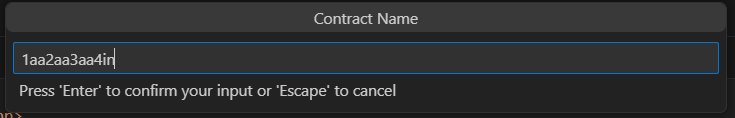
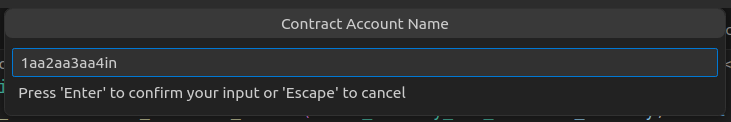
BLOCK-2445 - Update contract build tutorial (#234)
* BLOCK-2445 - Add version information to VSCode tutorials, add password step to transaction tutorial

* BLOCK-2445 - Update account name image

diff --git a/docs/tutorials/smart-contracts/transact.md b/docs/tutorials/smart-contracts/transact.md
@@ -17,6 +17,10 @@ The goal of this tutorial is to demonstrate how to interact with deployed smart 
 
 -   You must have deployed your smart contract. Refer to [Tutorial - Deploy Smart Contracts using the Ultra Smart Contract Toolkit Extension](./deploy.md).
 
+::: info
+The tutorial is up-to-date with version 1.4.2 of the VSCode extension
+:::
+
 ## Interacting with Smart Contract
 
 To interact with your deployed smart contract, follow these steps:
@@ -27,19 +31,22 @@ To interact with your deployed smart contract, follow these steps:
 2. Select the endpoint where your smart contract is deployed.
    ![](./images/command-palette-deploy-select-endpoint.png)
 
-3. Enter the name of the account which the contract was deployed under.
+3. Enter the password for the local wallet that you created in the previous tutorial.
+   ![](./images/command-palette-create-tx-password.png)
+
+4. Enter the name of the account which the contract was deployed under.
    ![](./images/command-palette-create-tx-account-name.png)
 
-4. You will now see a list of available actions for your smart contract. Select the one that you want to interact with.
+5. You will now see a list of available actions for your smart contract. Select the one that you want to interact with.
    ![](./images/command-palette-create-tx-select-action.png)
 
-5. Enter the signer account. The signer should be the account you have access to. For the sake of this tutorial, we will use the same account where we deployed the smart contract.
+6. Enter the signer account. The signer should be the account you have access to. For the sake of this tutorial, we will use the same account where we deployed the smart contract.
    ![](./images/command-palette-create-tx-signing-acc.png)
 
-6. You will now see a transaction form. Fill out your transaction data, and execute it by clicking on the `Sign & Send` button.
+7. You will now see a transaction form. Fill out your transaction data, and execute it by clicking on the `Sign & Send` button.
    ![](./images/vscode-ext-contract-action-interaction.png)
 
-7. If successful, you will see the transaction response in the output window.
+8. If successful, you will see the transaction response in the output window.
    ![](./images/vscode-ext-contract-action-interaction-output.png)
 
 You can use the transaction id and search for the transaction on the [Ultra Testnet Block Explorer](https://explorer.testnet.ultra.io/).

diff --git a/docs/tutorials/smart-contracts/deploy.md b/docs/tutorials/smart-contracts/deploy.md
@@ -19,6 +19,10 @@ The goal of this tutorial is to guide you through deploying a smart contract usi
 -   A public-private key pair for your developer Testnet account. If you haven't generated a key pair yet, refer to [Tutorial - Generate a key and create a developer Testnet account](../fundamentals/tutorial-generate-key-and-create-testnet-account.md)
 -   Your account must have sufficient UOS tokens for transactions and fees. Refer to [Tutorial - Using the Faucet and Buying RAM on Ultra Testnet](../fundamentals/tutorial-obtain-token-and-purchase-ram.md#obtaining-uos-tokens-using-the-faucet) for more information.
 
+::: info
+The tutorial is up-to-date with version 1.4.2 of the VSCode extension
+:::
+
 ## Add Developer Testnet Account
 
 Before you can deploy a smart contract, you will need to add your developer Testnet account to the Ultra Smart Contract Toolkit Extension. To do so, follow these steps:

diff --git a/docs/tutorials/smart-contracts/compile.md b/docs/tutorials/smart-contracts/compile.md
@@ -13,6 +13,10 @@ Compiling smart contracts is very simple with the [Ultra Smart Contract Toolkit]
 
 -   Have installed the Ultra Smart Contract Toolkit Extension. Refer to [Install and Setup the Ultra Smart Contract Toolkit Extension Tutorial](./index.md) for more information.
 
+::: info
+The tutorial is up-to-date with version 1.4.2 of the VSCode extension
+:::
+
 ## Goal
 
 The goal of this tutorial is to compile smart contracts using the Ultra Smart Contract Toolkit extension.

diff --git a/docs/tutorials/smart-contracts/index.md b/docs/tutorials/smart-contracts/index.md
@@ -13,6 +13,10 @@ order: -98
 -   [VS Code](https://code.visualstudio.com/)
     -   [Microsoft C++ Extension](https://marketplace.visualstudio.com/items?itemName=ms-vscode.cpptools) (optional, but recommended)
 
+::: info
+The tutorial is up-to-date with version 1.4.2 of the VSCode extension
+:::
+
 ## Goal
 
 The goal of this tutorial is to install the Ultra Smart Contract Toolkit extension and getting started with writing smart contracts.
